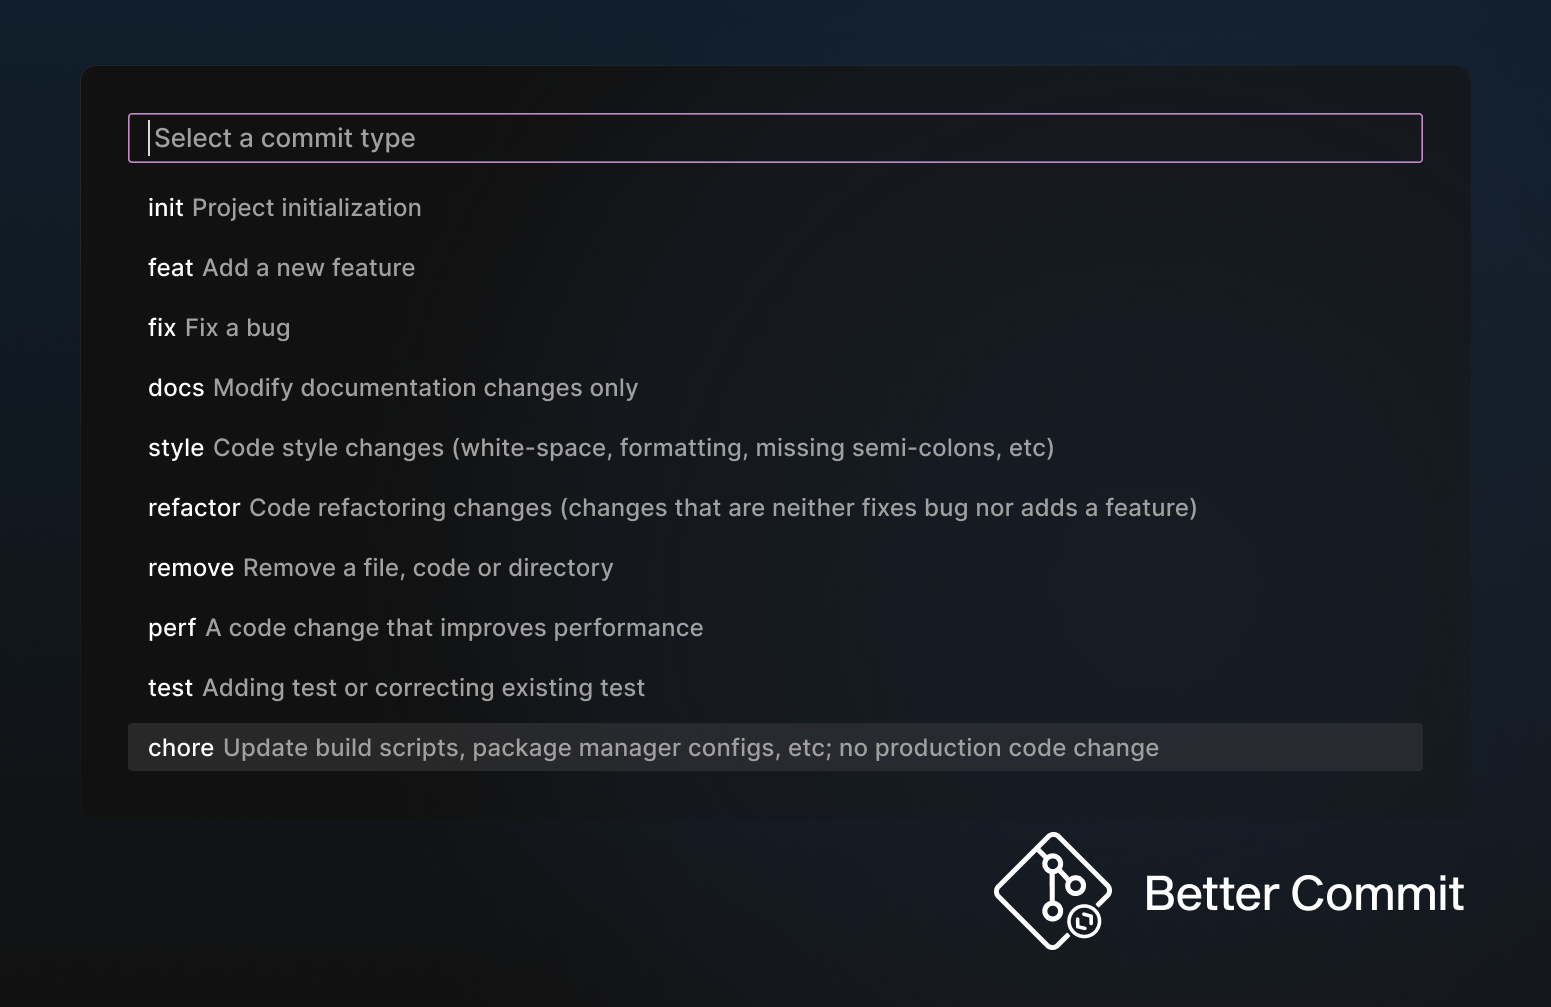
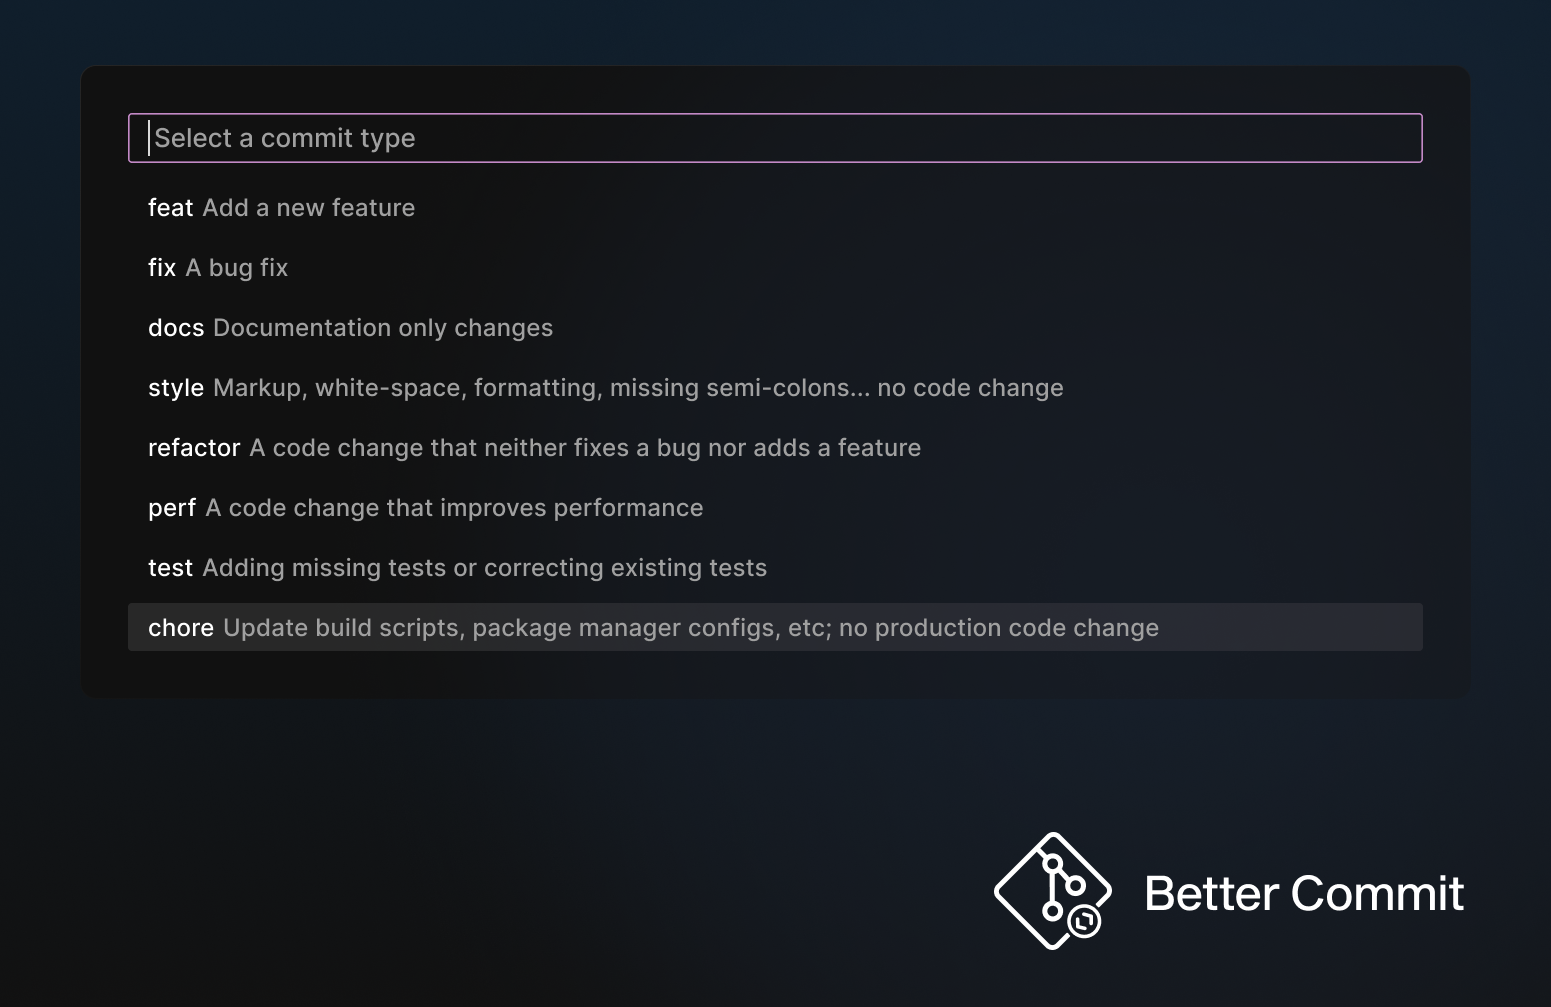
refactor: simplify git commit types & update homepage url

diff --git a/src/config/commit-type.ts b/src/config/commit-type.ts
@@ -8,56 +8,46 @@ import type { CommitTypeProps } from "../types/commit-type.types";
 
 export const commitTypes: Array<CommitTypeProps> = [
   {
-    label: "init",
-    description: "Project initialization",
+    label: "feat",
+    description: "Add a new feature",
     key: 0,
   },
   {
-    label: "feat",
-    description: "Add a new feature",
+    label: "fix",
+    description: "A bug fix",
     key: 1,
   },
   {
-    label: "fix",
-    description: "Fix a bug",
-    key: 2,
-  },
-  {
     label: "docs",
-    description: "Modify documentation changes only",
-    key: 3,
+    description: "Documentation only changes",
+    key: 2,
   },
   {
     label: "style",
     description:
-      "Code style changes (white-space, formatting, missing semi-colons, etc)",
-    key: 4,
+      "Markup, white-space, formatting, missing semi-colons... no code change",
+    key: 3,
   },
   {
     label: "refactor",
     description:
-      "Code refactoring changes (changes that are neither fixes bug nor adds a feature)",
-    key: 5,
-  },
-  {
-    label: "remove",
-    description: "Remove a file, code or directory",
-    key: 6,
+      "A code change that neither fixes a bug nor adds a feature",
+    key: 4,
   },
   {
     label: "perf",
     description: "A code change that improves performance",
-    key: 7,
+    key: 5,
   },
   {
     label: "test",
-    description: "Adding test or correcting existing test",
-    key: 8,
+    description: "Adding missing tests or correcting existing tests",
+    key: 6,
   },
   {
     label: "chore",
     description:
       "Update build scripts, package manager configs, etc; no production code change",
-    key: 9,
+    key: 7,
   },
 ];
